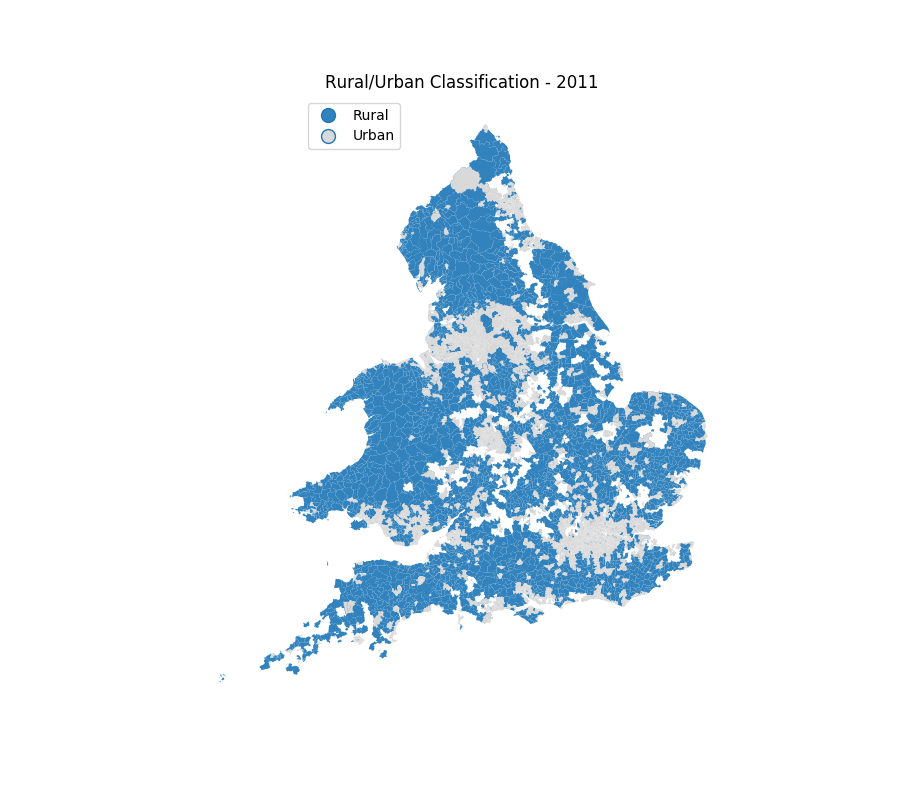
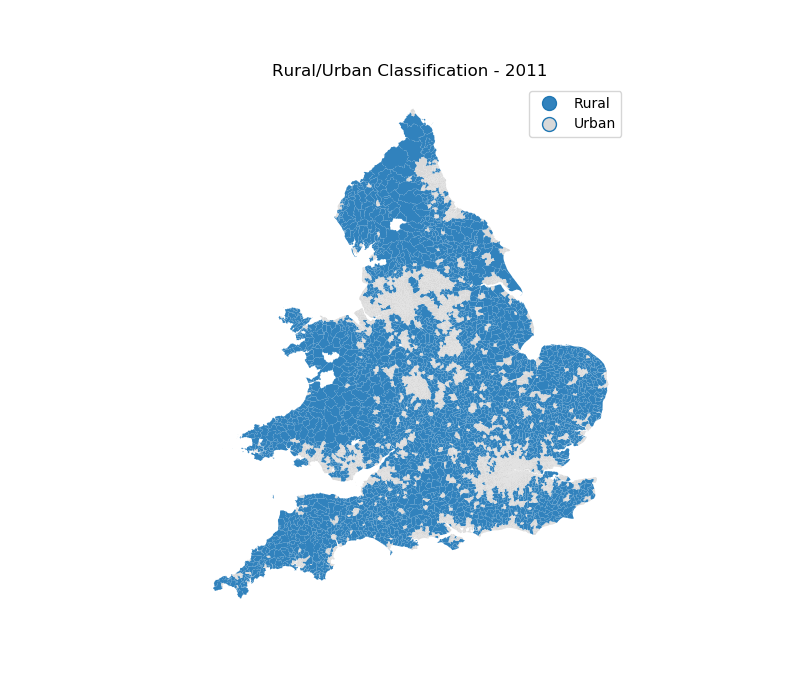
using 2011 shapefile

Changed region(s): [[0.25, 0.15, 0.7812, 0.87], [0.3438, 0.09, 0.7812, 0.21]]

diff --git a/scripts/utils.py b/scripts/utils.py
@@ -50,13 +50,13 @@ def categ(df, cat, r=False):
 
     return df
     
-def categ_plot(shp_path, df, var_name, title):
+def categ_plot(shp_path, geo_code, df, var_name, title):
     "Categorical plot for given variable"
     print("\nGenerating plot...")
     
-    map_df = gpd.read_file(shp_path)
-    merged = map_df.set_index("wd15nm").join(df[var_name]).fillna(value='no data available') #.dropna(subset=[var_name]) 
-    merged=merged.loc[~merged["wd15cd"].str.startswith('S', na=False)] # drop Scottish wards
+    map_df = gpd.read_file(shp_path) 
+    merged = map_df.merge(df[var_name], left_on=geo_code, right_on=df.index) #.fillna(value='no data available') #.dropna(subset=[var_name]) 
+    #merged=merged.loc[~merged["wd15cd"].str.startswith('S', na=False)] # drop Scottish wards
 
     ax = plt.subplots(1,1, figsize=(8,7))[1]
     ax.axis('off')
@@ -108,9 +108,9 @@ def ru_class(remap=True):
         rural_urban['RUC11'].replace(ru_map, inplace=True)
 
     # plot
-    #shp_path = "data/shapefiles/GB_Wards_2015.shp"
-    #categ_plot(shp_path, rural_urban.set_index('WD11NM'), 'RUC11', 'Rural/Urban split - 2011')
-    #plt.show()
+    # shp_path = "data/shapefiles/EW_Wards_2011.shp"
+    # categ_plot(shp_path, 'geo_code', rural_urban.set_index('WD11CD'), 'RUC11', 'Rural/Urban Classification - 2011')
+    # plt.show()
 
     # merge with df
     #b = df.merge(rural_urban[['WD11CD','RUC11']], left_on='OriginWardCode', right_on=['WD11CD'], how='left')
